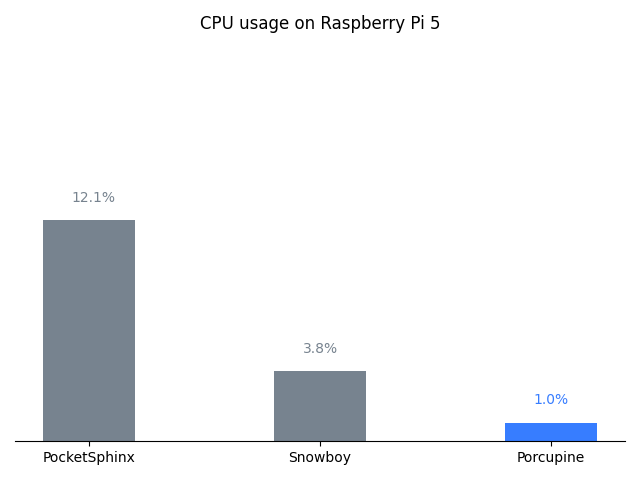
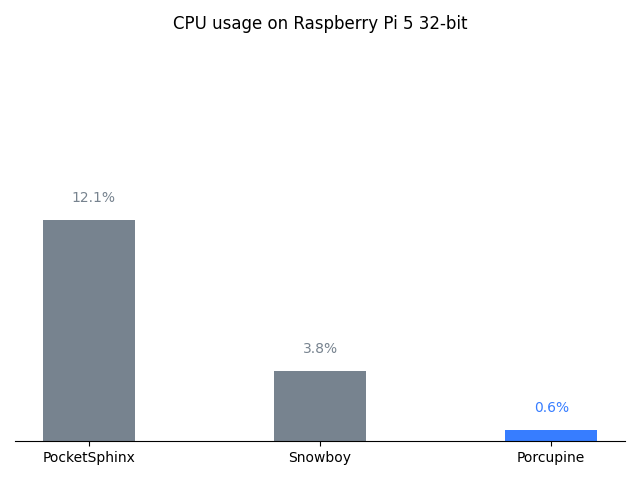
address comments and CICD

Changed region(s): [[0.25, 0.0312, 0.75, 0.0625], [0.7812, 0.8125, 0.9375, 0.9062]]

diff --git a/plot.py b/plot.py
@@ -91,7 +91,7 @@ def plot_cpu_chart():
     engine_cpu_usage = [
         (Engines.POCKET_SPHINX.value, 12.13),
         (Engines.SNOWBOY.value, 3.84),
-        (Engines.PORCUPINE.value, 1.02)
+        (Engines.PORCUPINE.value, 0.60)
     ]
 
     engines = [x[0] for x in engine_cpu_usage]
@@ -113,7 +113,7 @@ def plot_cpu_chart():
             color=PV_COLOR if engines[i] == Engines.PORCUPINE.value else COLOR)
 
     ax.set_ylim(0, max(cpu_usages) + 10)
-    ax.set_title('CPU usage on Raspberry Pi 5')
+    ax.set_title('CPU usage on Raspberry Pi 5 32-bit')
     ax.set_xticks(indices)
     ax.set_xticklabels(engines)
     plt.tick_params(axis='y', which='both', left=False, right=False, labelleft=False)

diff --git a/benchmark.py b/benchmark.py
@@ -22,8 +22,14 @@ import os
 import numpy as np
 import soundfile
 
-from dataset import Dataset, Datasets
-from engine import Engine, Engines
+from dataset import (
+    Dataset,
+    Datasets
+)
+from engine import (
+    Engine,
+    Engines
+)
 from mixer import create_test_files
 
 logging.basicConfig(format='%(asctime)s:%(levelname)s:%(message)s', level=logging.INFO)

diff --git a/engine.py b/engine.py
@@ -19,10 +19,13 @@ from collections import namedtuple
 from enum import Enum
 
 import numpy as np
-from pocketsphinx import get_model_path
-from pocketsphinx import Decoder, Config
-
 import pvporcupine
+from pocketsphinx import (
+    Config,
+    Decoder,
+    get_model_path
+)
+
 from engines import snowboydetect
 
 

diff --git a/runtime/README.md b/runtime/README.md
@@ -6,15 +6,15 @@ moving data between C and different language bindings, etc when possible.
 
 For Snowboy a utility program is created [here](/runtime/snowboy_runtime_test.cpp). 
 
-For Porcupine we use the utility script [here](/runtime/porcupine_runtime_test.py). It reads a WAV file and pass it 
-through the corresponding wake-word engine frame-by-frame as is the case in real time applications. 
-It only measures the time spent in the corresponding processing/detection method of the engines.
+For Porcupine we use the file-based C demo application available within the official repository. These programs read a
+WAV file and pass it through the corresponding wake-word engine frame-by-frame as is the case in real time applications.
+They only measure the time spent in the corresponding processing/detection method of the engines.
 
 For PocketSphinx the task of creating such a utility program is more involved and hence we opt for an easier method of
 measuring the processing time of its commandline interface. This is essentially an upper bound on the actual processing
 time of PocketSphinx.
 
-All the measurements are done on Raspberry Pi 5 64bit.
+All the measurements are done on Raspberry Pi 5 32bit.
 
 ## Real Time Factor
 
@@ -45,9 +45,8 @@ engines/snowboy/resources/common.res engines/snowboy/resources/alexa/alexa-avs-s
 ```
 
 ### Porcupine
-```bash
-python3 runtime/porcupine_runtime_test.py --audio audio/multiple_keywords.wav --keyword alexa --access-key ${ACCESS_KEY}
-```
+Refer to the documentation of the [C demo](https://github.com/Picovoice/porcupine/tree/master/demo/c) application
+within the official repository.
 
 ### PocketSphinx
 
